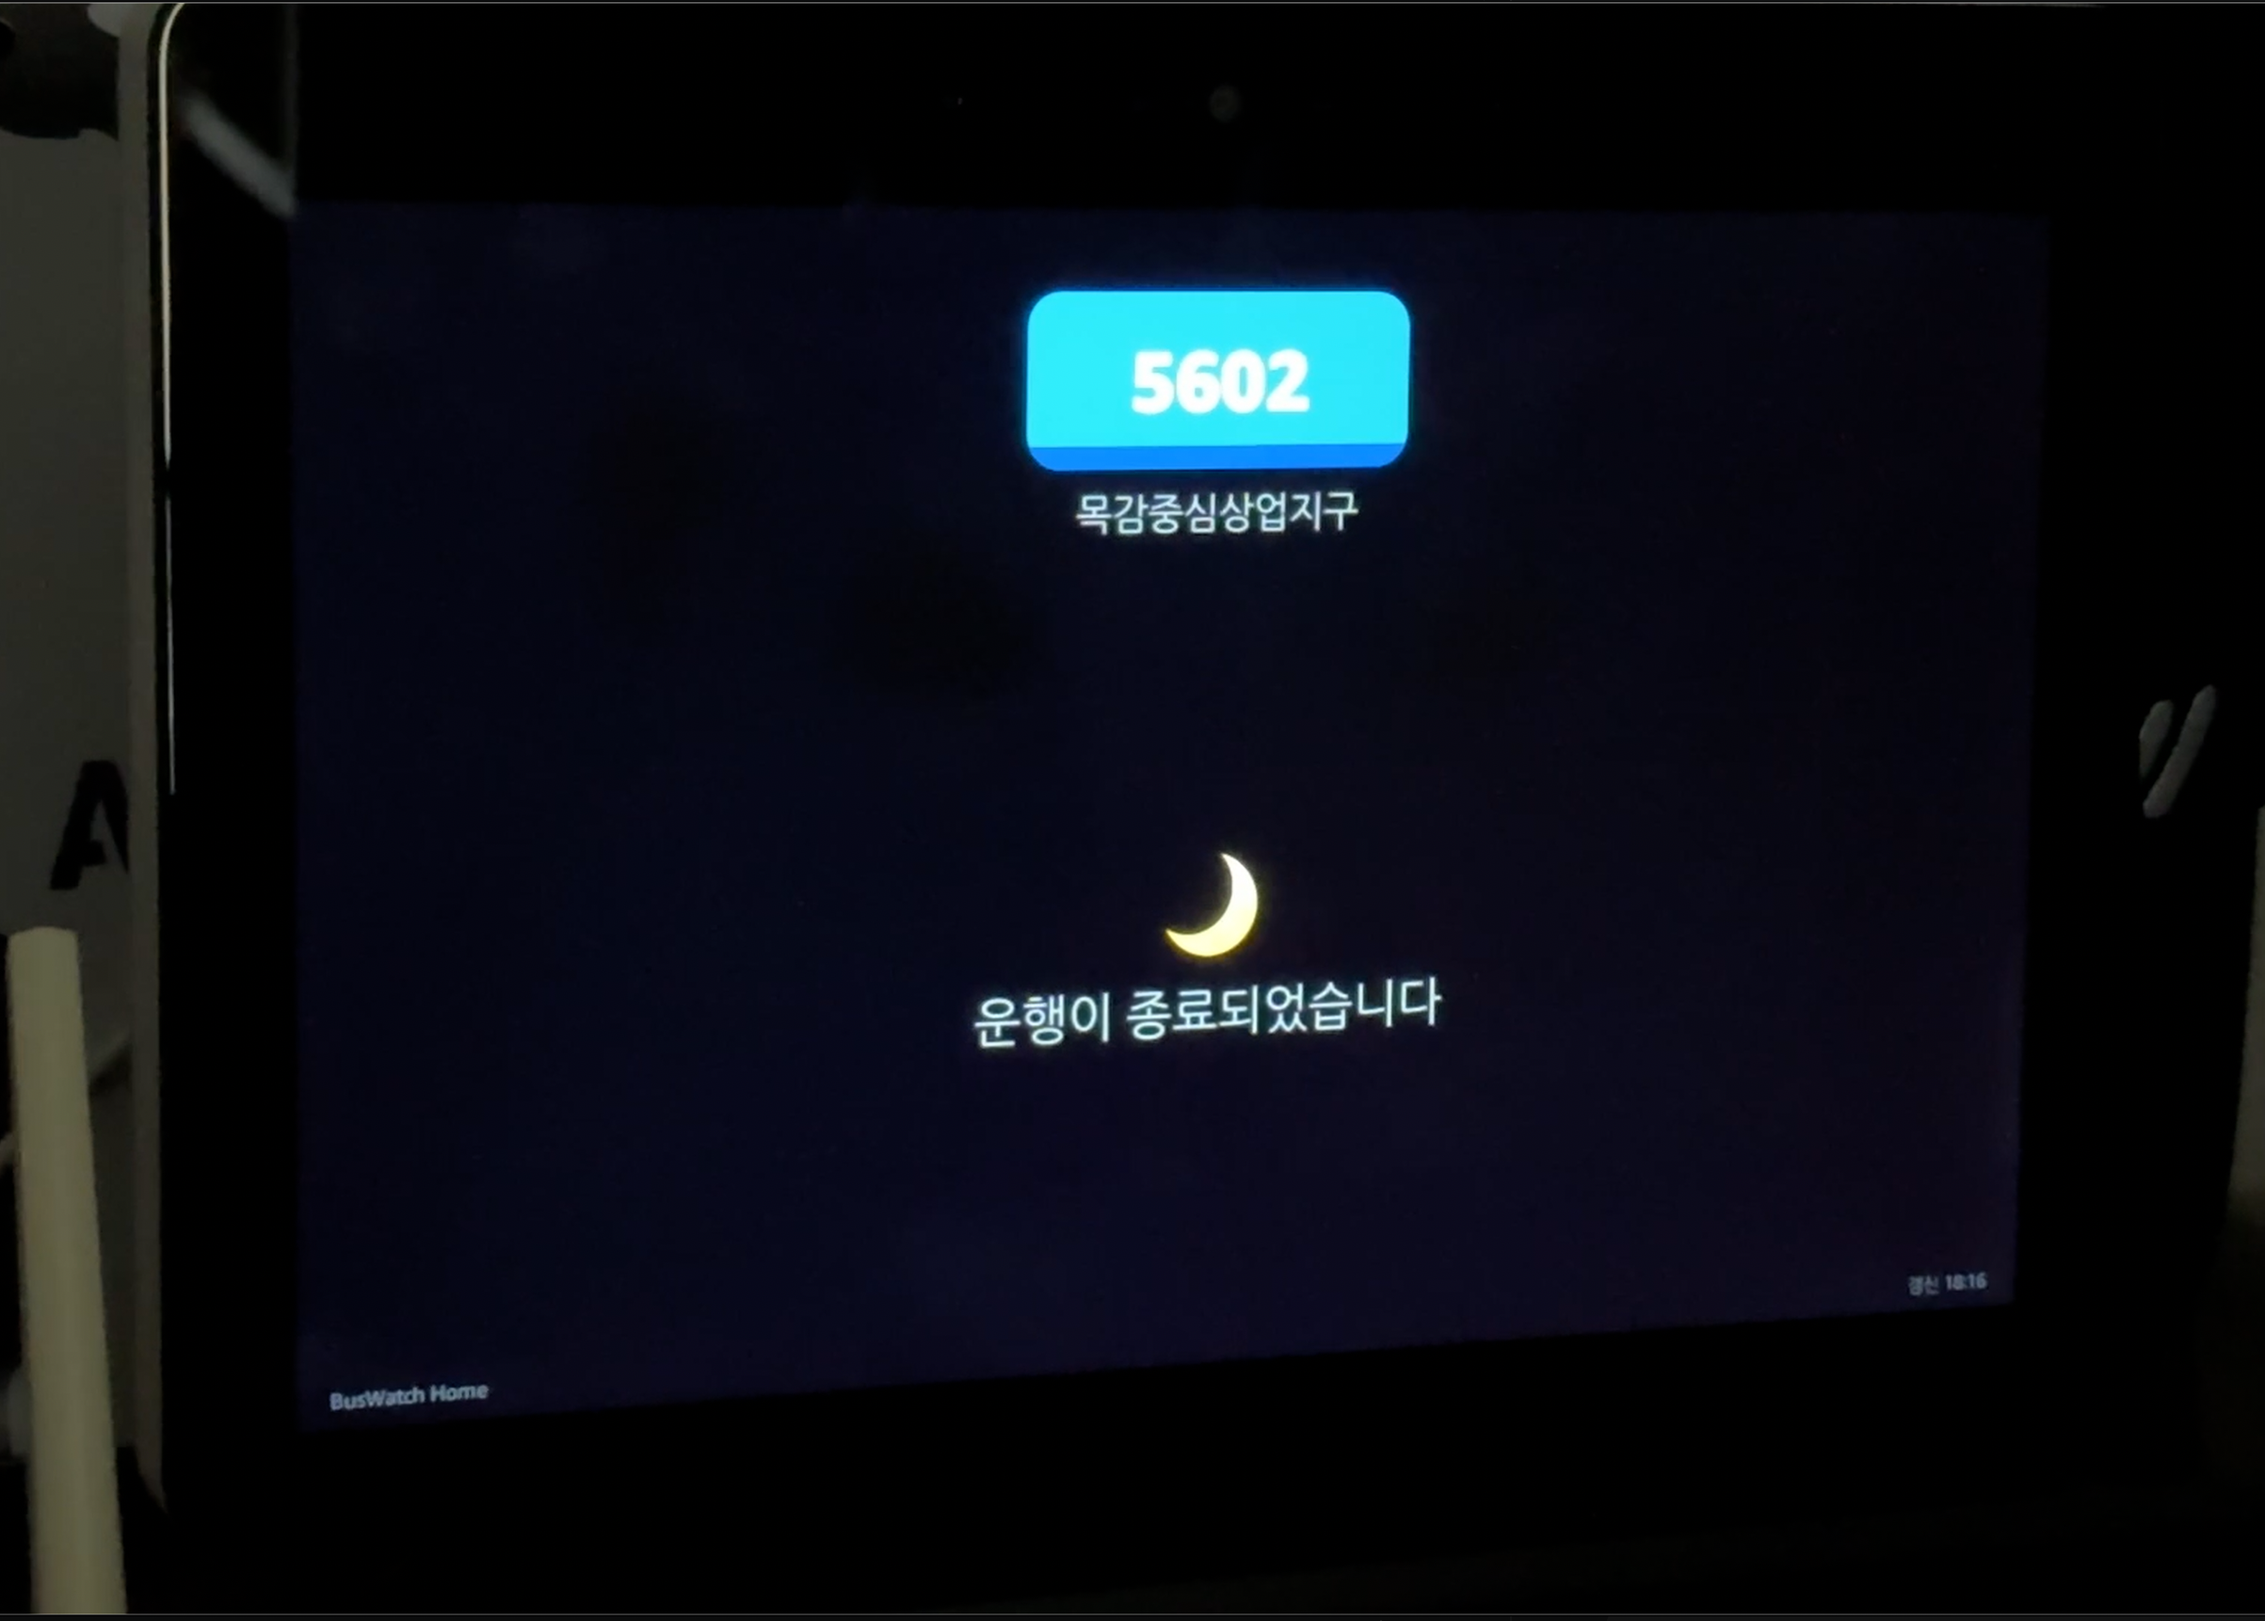
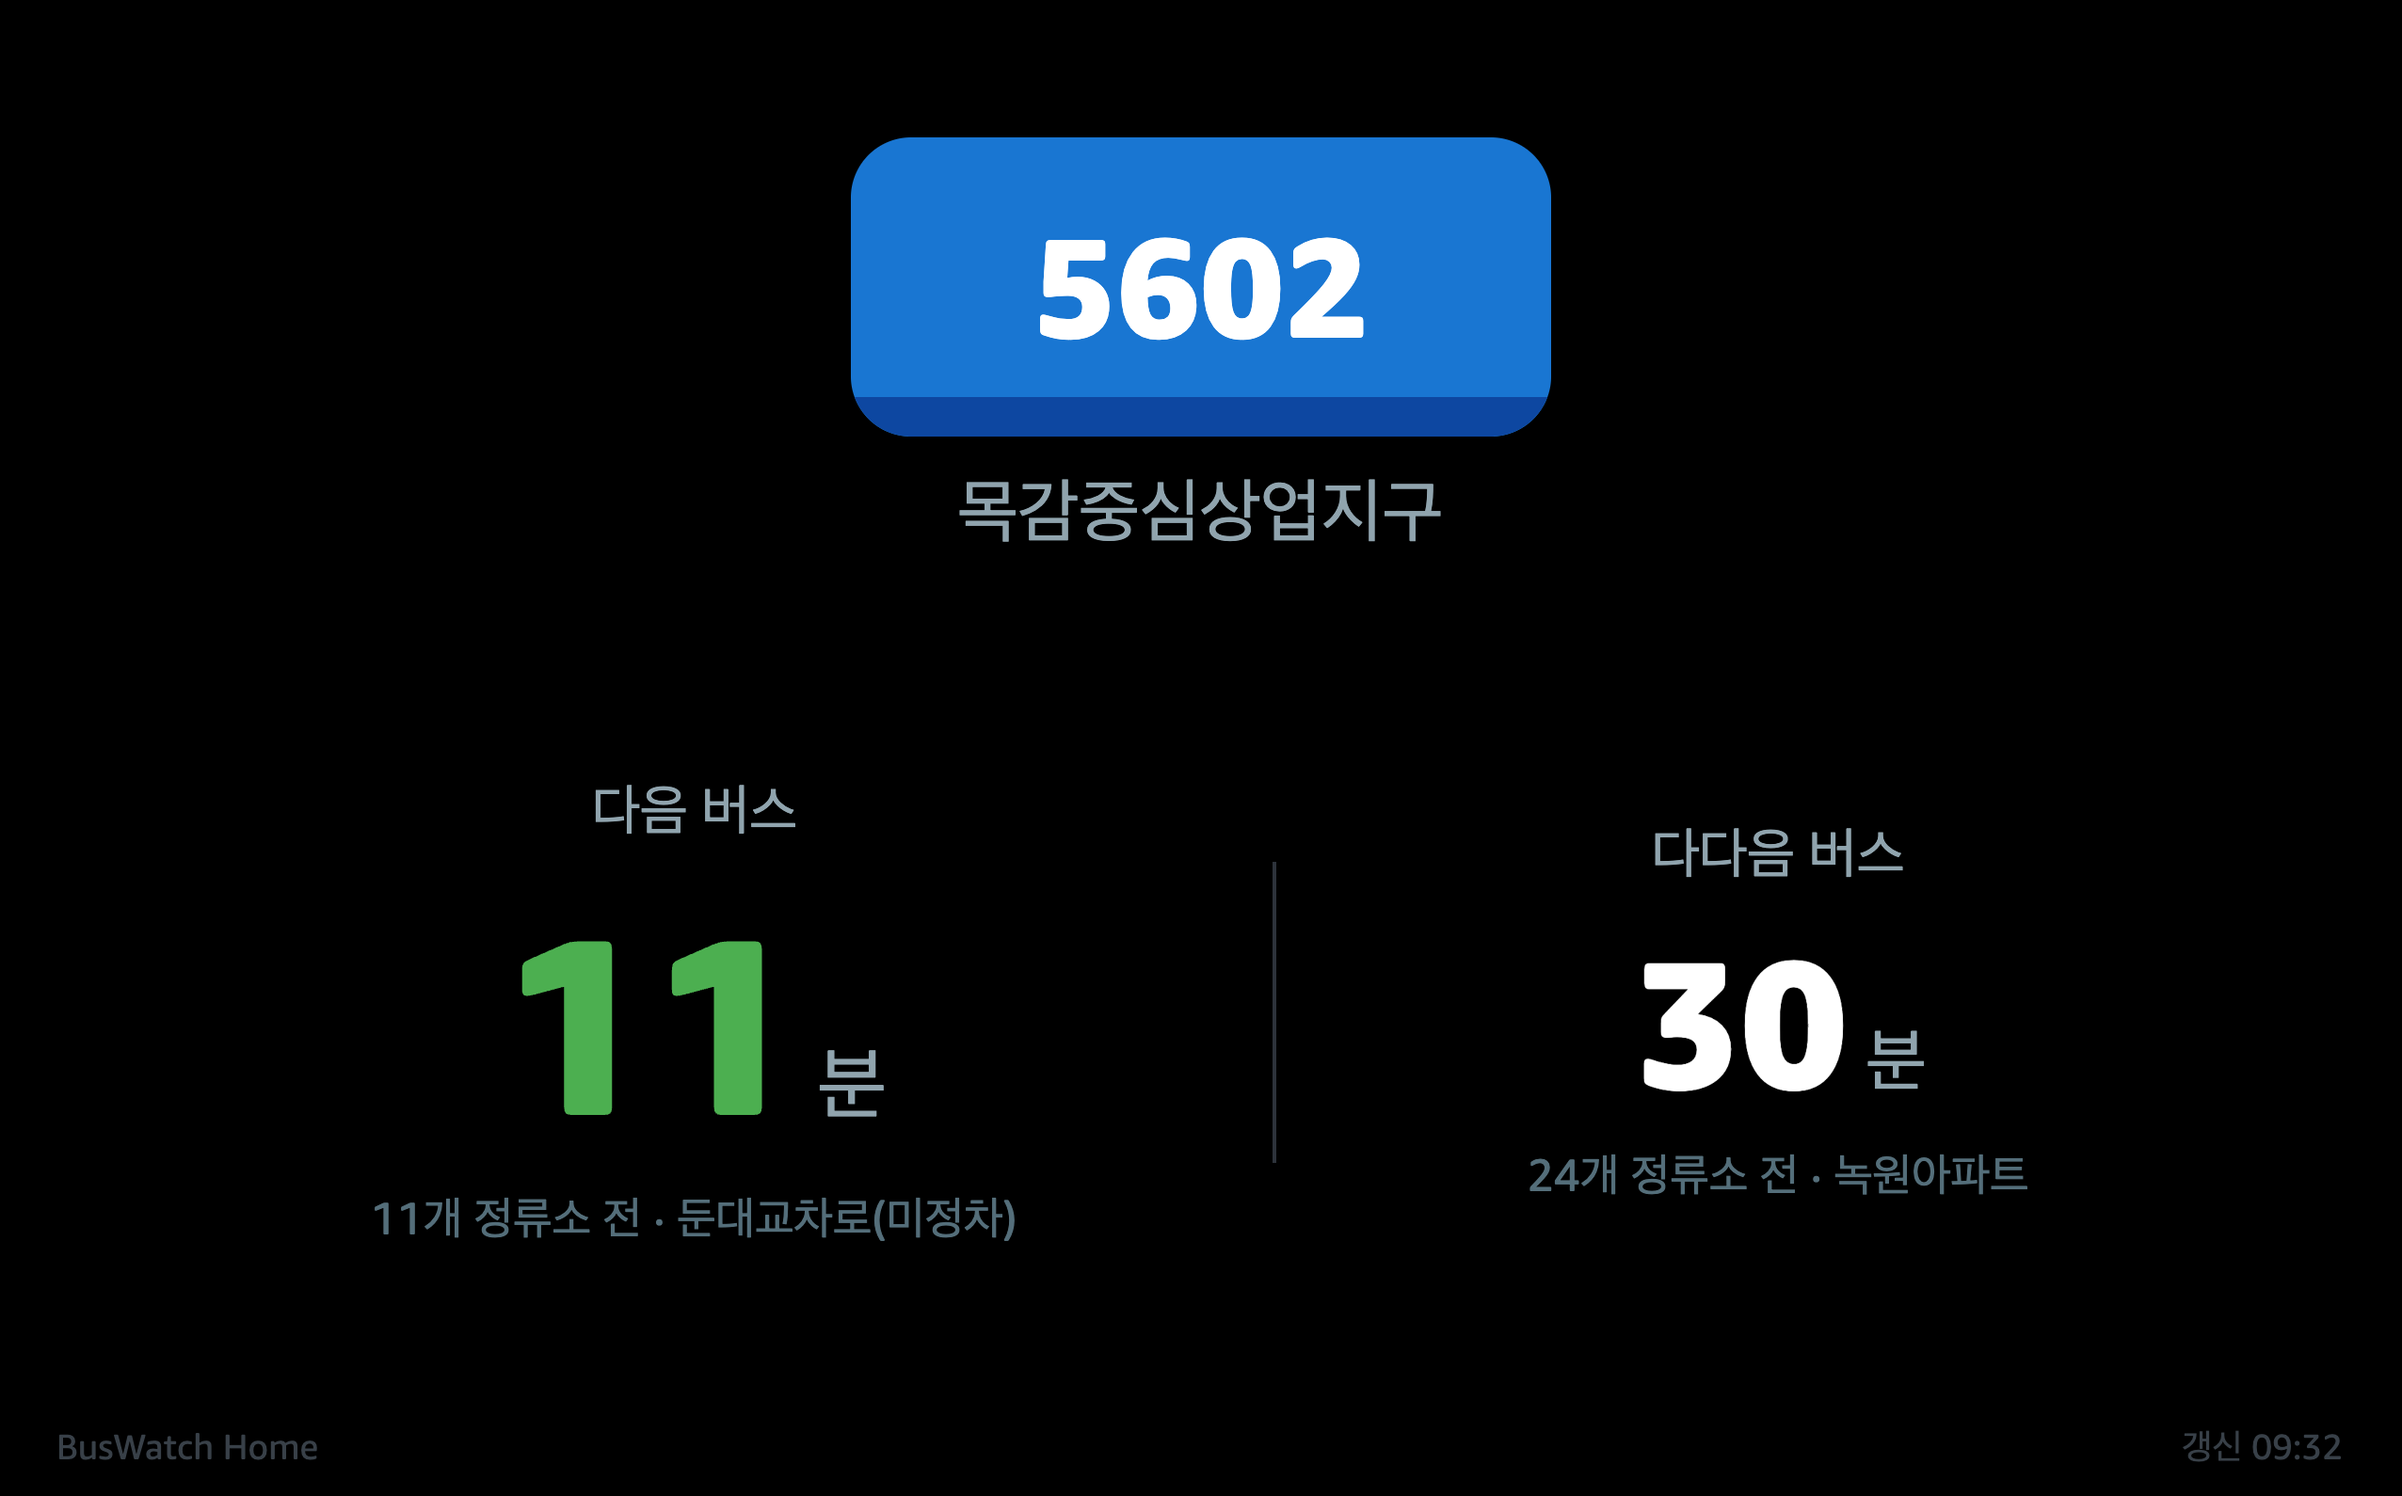
버스 도착 정보 관련 기능 개선 및 APL 디스플레이 업데이트 - "my bus" 호출을 "next bus"로 변경 - 운행 종료 및 도착 정보 처리 로직 수정 - TrueNAS Custom App을 위한 docker-compose 파일 추가 - 이미지 파일 업데이트

diff --git a/backend/app/alexa/handler.py b/backend/app/alexa/handler.py
@@ -64,7 +64,7 @@ def _build_apl_datasource(info: BusArrivalInfo) -> dict:
 
 
 def _build_speech(info: BusArrivalInfo) -> str:
-    if info.flag in ("PASS", "STOP"):
+    if info.flag == "STOP" or (info.flag == "PASS" and info.predict_time1 is None):
         return f"{info.route_name}번 버스는 현재 운행이 종료되었습니다."
     if info.predict_time1 is None:
         return f"{info.route_name}번 버스 도착 정보가 없습니다."
@@ -115,7 +115,8 @@ def _fetch_arrival_sync() -> BusArrivalInfo:
 
 
 def _error_arrival_info() -> BusArrivalInfo:
-    from datetime import datetime
+    from datetime import datetime, timezone, timedelta
+    KST = timezone(timedelta(hours=9))
     return BusArrivalInfo(
         route_name=get_active_route_name(),
         station_name=get_active_station_name(),
@@ -132,7 +133,7 @@ def _error_arrival_info() -> BusArrivalInfo:
         flag="ERROR",
         crowded1="",
         crowded2="",
-        last_updated=datetime.now().strftime("%H:%M"),
+        last_updated=datetime.now(KST).strftime("%H:%M"),
     )
 
 
@@ -156,6 +157,7 @@ class LaunchRequestHandler(AbstractRequestHandler):
         return (
             handler_input.response_builder
             .speak(speech)
+            .ask(" ")
             .set_should_end_session(False)
             .response
         )
@@ -178,6 +180,7 @@ class BusArrivalIntentHandler(AbstractRequestHandler):
         return (
             handler_input.response_builder
             .speak(speech)
+            .ask(" ")
             .set_should_end_session(False)
             .response
         )

diff --git a/backend/app/gbis/client.py b/backend/app/gbis/client.py
@@ -2,8 +2,10 @@ from __future__ import annotations
 
 import logging
 from dataclasses import dataclass
-from datetime import datetime
+from datetime import datetime, timezone, timedelta
 from urllib.parse import unquote
+
+KST = timezone(timedelta(hours=9))
 
 import httpx
 
@@ -74,7 +76,7 @@ async def get_bus_arrival(
         raise RuntimeError(f"GBIS API error: {header['resultMessage']}")
 
     item = data["response"]["msgBody"]["busArrivalItem"]
-    now = datetime.now().strftime("%H:%M")
+    now = datetime.now(KST).strftime("%H:%M")
 
     return BusArrivalInfo(
         route_name=str(item.get("routeName", active_route_name)),

diff --git a/README.md b/README.md
@@ -3,7 +3,7 @@
 Echo Show 10/15에서 실시간 버스 도착 정보를 표시하는 Alexa Custom Skill.
 
 ```
-"Alexa, open my bus"
+"Alexa, open next bus"
 ```
 
 경기도 버스 도착 정보를 Echo Show 디스플레이에 한눈에 보여줍니다.
@@ -49,7 +49,8 @@ echo-bus/
 │   │       └── settings.html         # 정류소/노선 설정 웹 UI
 │   ├── requirements.txt
 │   ├── Dockerfile
-│   └── docker-compose.yml
+│   ├── docker-compose.yml            # 이미지 빌드 전용
+│   └── docker-compose.truenas.yml    # TrueNAS Custom App 실행용
 └── skill-package/
     ├── skill.json                    # Alexa Skill 매니페스트 (en-US)
     └── interactionModels/custom/
@@ -63,11 +64,12 @@ echo-bus/
 | 실시간 도착 표시 | 다음 버스 / 다다음 버스 도착 시간 (분) |
 | APL 디스플레이 | 다크 테마, 버스 타입별 색상 (파란/빨간/초록) |
 | 자동 갱신 | APL handleTick + SendEvent로 60초 간격 |
+| 세션 유지 | reprompt + handleTick으로 5분간 화면 유지 |
 | 도착 시간 컬러코딩 | 3분 이하 빨강, 7분 이하 주황, 그 외 초록 |
 | 한국어 표시 | 디스플레이·TTS 모두 한국어 |
-| 영어 호출 | "Alexa, open my bus" (en-US) |
+| 영어 호출 | "Alexa, open next bus" (en-US) |
 | 설정 UI | 웹에서 정류소/노선 변경 가능 (`/settings`) |
-| 운행 종료 표시 | 심야 등 운행 종료 시 🌙 + 안내 메시지 |
+| 운행 종료 표시 | 심야 등 운행 종료 시 🌙 + 안내 메시지 (PASS flag + 도착 예정 시간 없을 때) |
 | 오류 처리 | API 장애 시 ⚠ + 오류 화면 표시 |
 
 ## 버스 색상 구분
@@ -97,9 +99,9 @@ GBIS API의 `routeTypeName`을 기반으로 자동 분류됩니다.
 
 | 명령 | 예시 |
 |------|------|
-| 스킬 열기 | "Alexa, open my bus" |
-| 도착 조회 | "Alexa, ask my bus for next bus" |
-| 도움말 | "Alexa, ask my bus for help" |
+| 스킬 열기 | "Alexa, open next bus" |
+| 도착 조회 | "Alexa, ask next bus for arrival time" |
+| 도움말 | "Alexa, ask next bus for help" |
 | 종료 | "Alexa, stop" |
 
 ---
@@ -134,35 +136,37 @@ open http://localhost:8080/settings
 
 1. [developer.amazon.com](https://developer.amazon.com/alexa/console/ask) 접속
 2. **Create Skill** → Custom → Provision your own
-3. **Invocation Name**: `my bus`
+3. **Invocation Name**: `next bus`
 4. **JSON Editor**: `skill-package/interactionModels/custom/en-US.json` 붙여넣기
 5. **Endpoint** → HTTPS:
    - Default Region: `https://<YOUR_DOMAIN>/alexa`
    - SSL: "My development endpoint has a certificate from a trusted certificate authority"
 6. **Interfaces** → Alexa Presentation Language 활성화
 7. **Save** → **Build** → **Test** 탭에서 Development 모드
-8. 테스트: "open my bus"
+8. 테스트: "open next bus"
 
 ### 업데이트 배포
 
-```bash
-# 개발 머신에서
-cd <LOCAL_PROJECT_DIR>
-rsync -avz --exclude '.venv' --exclude '__pycache__' --exclude '.git' --exclude 'settings.json' \
-  . <USER>@<TRUENAS_IP>:<TRUENAS_APP_DIR>/
+배포는 3단계로 진행합니다. 실행 관리는 TrueNAS Custom App에서 합니다.
 
-# TrueNAS에서
-cd <TRUENAS_APP_DIR>/backend
-sudo docker compose build && sudo docker compose up -d --force-recreate
+```bash
+# 1. 파일 전송
+rsync -avz --delete backend/ studydev@192.168.1.92:/mnt/workspace/custom_apps/echo-bus/backend/
+
+# 2. 이미지 빌드 (서버에서)
+ssh studydev@192.168.1.92 "cd /mnt/workspace/custom_apps/echo-bus/backend && sudo docker compose build"
+
+# 3. TrueNAS 웹 UI → Apps → bus-watch → 재시작
 ```
 
 ### 컨테이너 관리
 
+TrueNAS 웹 UI (Apps 페이지)에서 bus-watch 앱의 시작/중지/재시작을 관리합니다.
+
+SSH로 로그 확인:
+
 ```bash
-sudo docker compose stop        # 중지
-sudo docker compose restart     # 재시작
-sudo docker compose down --rmi all  # 완전 삭제
-sudo docker compose logs --tail 50 buswatch  # 로그
+sudo docker logs --tail 50 buswatch-backend  # 로그
 ```
 
 ---
@@ -202,7 +206,7 @@ sudo docker compose logs --tail 50 buswatch  # 로그
 - **GBIS API 클라이언트**: httpx (비동기)
 - **Alexa SDK**: ask-sdk-core + ask-sdk-webservice-support
 - **디스플레이**: APL 2024.3
-- **배포**: Docker / docker-compose (TrueNAS)
+- **배포**: Docker / TrueNAS Custom App
 - **리버스 프록시**: Apache 2.4 (<PROXY_IP>)
 - **SSL**: acme.sh (Let's Encrypt, EC-256)
 - **설정**: pydantic-settings + settings.json 동적 오버라이드
